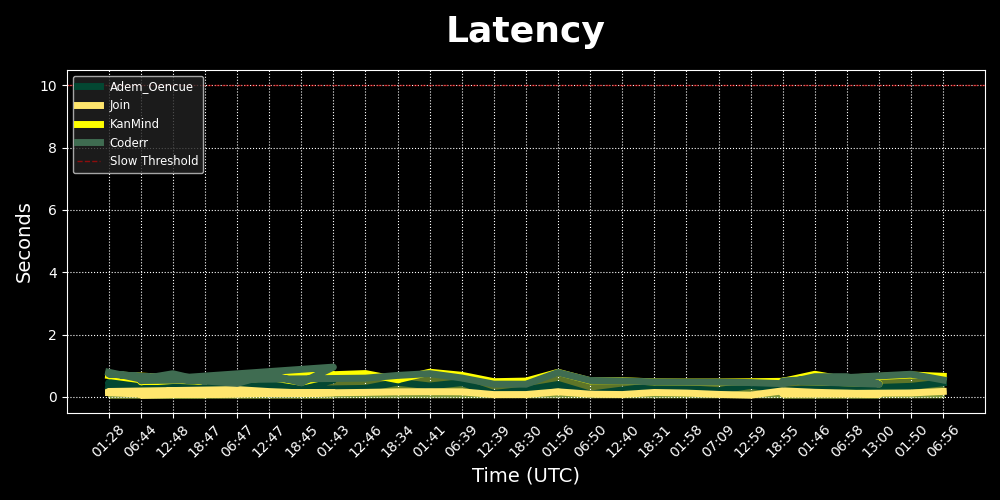
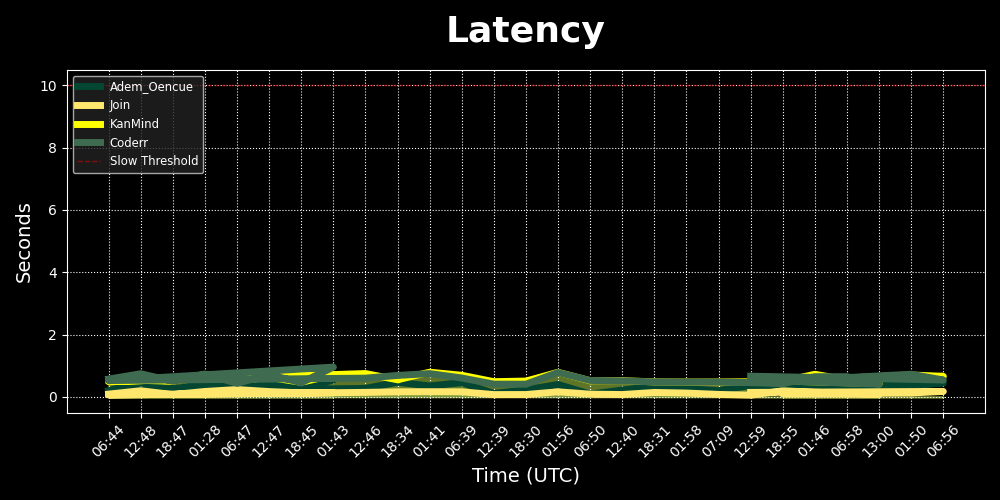
docs: update uptime stats & history

diff --git a/README.md b/README.md
@@ -8,10 +8,10 @@ This repository automatically checks the status of my websites at regular interv
 
 | Website | Status | Latency | Info | Uptime |
 | :--- | :---: | :---: | :--- | :---: |
-| **Adem_Oencue** | ![Status](https://img.shields.io/badge/Status-ONLINE-success?style=flat-square) | `0.45s` | 200 (0.45s) | ![Uptime](https://img.shields.io/static/v1?label=Uptime&message=100.0%25&color=brightgreen&style=flat-square) |
-| **Join** | ![Status](https://img.shields.io/badge/Status-ONLINE-success?style=flat-square) | `0.18s` | 200 (0.18s) | ![Uptime](https://img.shields.io/static/v1?label=Uptime&message=100.0%25&color=brightgreen&style=flat-square) |
-| **KanMind** | ![Status](https://img.shields.io/badge/Status-ONLINE-success?style=flat-square) | `0.66s` | 200 (0.66s) | ![Uptime](https://img.shields.io/static/v1?label=Uptime&message=100.0%25&color=brightgreen&style=flat-square) |
-| **Coderr** | ![Status](https://img.shields.io/badge/Status-ONLINE-success?style=flat-square) | `0.54s` | 200 (0.54s) | ![Uptime](https://img.shields.io/static/v1?label=Uptime&message=100.0%25&color=brightgreen&style=flat-square) |
+| **Adem_Oencue** | ![Status](https://img.shields.io/badge/Status-ONLINE-success?style=flat-square) | `0.37s` | 200 (0.37s) | ![Uptime](https://img.shields.io/static/v1?label=Uptime&message=100.0%25&color=brightgreen&style=flat-square) |
+| **Join** | ![Status](https://img.shields.io/badge/Status-ONLINE-success?style=flat-square) | `0.15s` | 200 (0.15s) | ![Uptime](https://img.shields.io/static/v1?label=Uptime&message=100.0%25&color=brightgreen&style=flat-square) |
+| **KanMind** | ![Status](https://img.shields.io/badge/Status-ONLINE-success?style=flat-square) | `0.47s` | 200 (0.47s) | ![Uptime](https://img.shields.io/static/v1?label=Uptime&message=100.0%25&color=brightgreen&style=flat-square) |
+| **Coderr** | ![Status](https://img.shields.io/badge/Status-ONLINE-success?style=flat-square) | `0.67s` | 200 (0.67s) | ![Uptime](https://img.shields.io/static/v1?label=Uptime&message=100.0%25&color=brightgreen&style=flat-square) |
 
-_Last updated: 18.03.2026 06:56 UTC_
+_Last updated: 18.03.2026 12:59 UTC_
 <!-- END_STATUS -->
